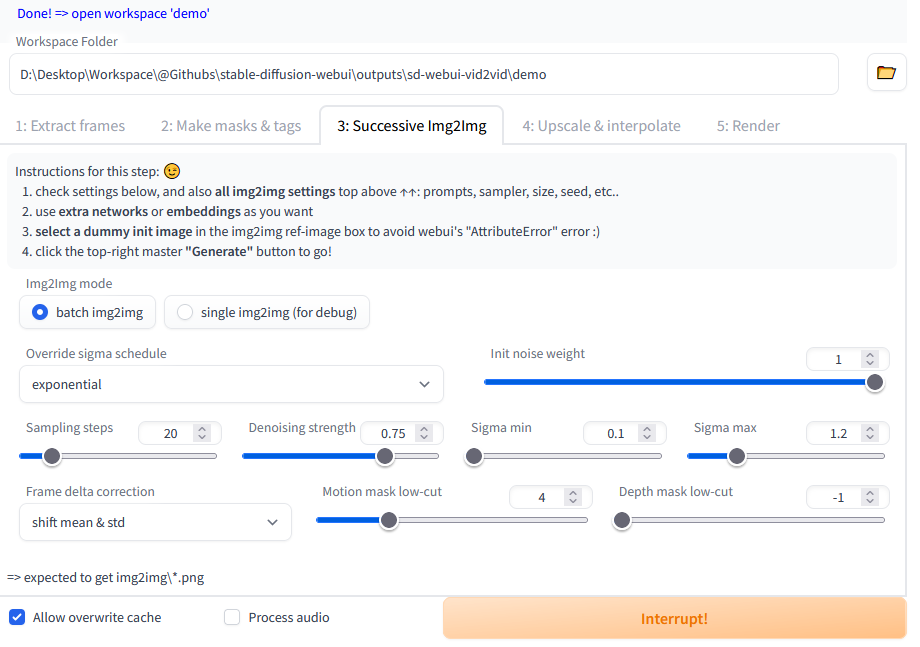
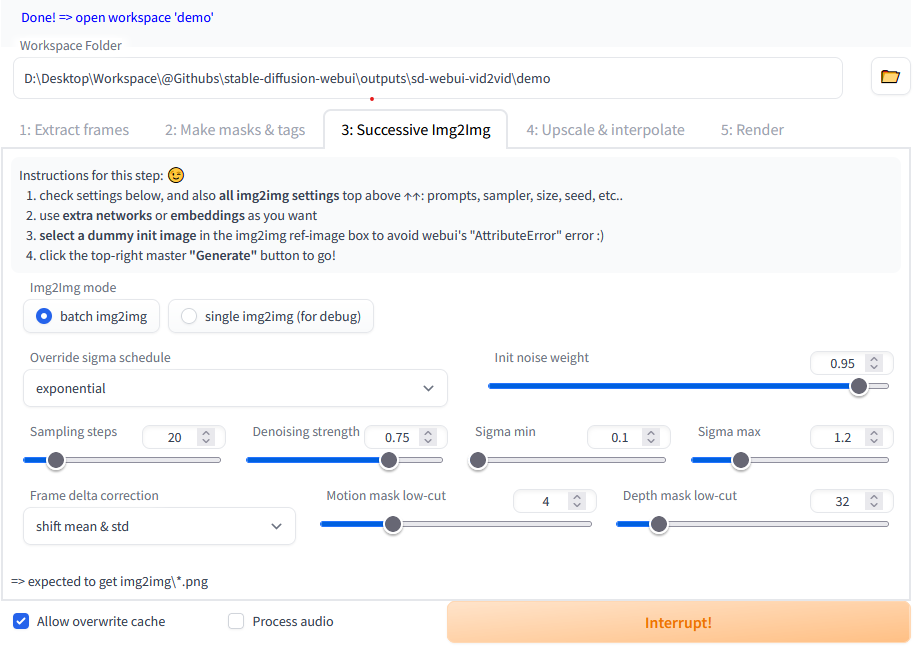
v1.0, just publish and end its life (

diff --git a/README.md b/README.md
@@ -19,12 +19,15 @@
 Convert a video to an AI generated video through a pipeline of model neural models: Stable-Diffusion, DeepDanbooru, Midas, Real-ESRGAN, RIFE, etc.  
 Although it sounds like the old joke that an English wizard turns a walnut into another walnut by reciting a tongue-twisting spell. 🤣  
 
+ℹ This script is only applicable in `img2img` tab :)  
+⚠ some tasks will take a real long time, **DO NOT** click the button twice, juts see progress bar on console!!
+
 
 Example: 
 
 | vid2vid | original | img2img |
 | :-: | :-: | :-: |
-| ![vid2vid](img/v2v.gif | ![original](img/original.gif) | ![img2img](img/i2i.gif) |
+| ![vid2vid](img/v2v.gif) | ![original](img/original.gif) | ![img2img](img/i2i.gif) |
 
 demo video original source:
 
@@ -47,18 +50,19 @@ CFG Scale: 7
 Seed: 114514
 
 Extracted FPS: 12
-Extracted fmt: jpg
+Extracted fmt: png
 Sampling steps: 20
-Denoising strength: 0.85
+Denoising strength: 0.75
 Init noise weight: 0.95
 Sigma method: exponential
-Sigma sigma max: 1.2
 Sigma sigma min: 0.1
+Sigma sigma max: 1.2
 Frame delta correction: avg & std
-Depth mask lowcut: -1
+Motion mask lowcut: 4
+Depth mask lowcut: 32
 RESR model: animevideov3-x2
 RIFE model: rife-v4
-Interp/export FPS: 24
+Interpolation ratio: 2
 Export fmt: mp4
 ```
 
@@ -113,16 +117,6 @@ We apply **frame delta correction & mask** using frame delta info:
   - `cd <SD>\repositories`
   - `git clone https://github.com/isl-org/MiDaS.git midas`
   - download `https://github.com/AlexeyAB/MiDaS/releases/download/midas_dpt/midas_v21_small-70d6b9c8.pt` put under `<SD>\models\midas\`
-
-
-### Options
-
-ℹ This script is only applicable in `img2img` tab :)  
-⚠ some tasks will take a real long time, DO NOT click the button twice, juts see output on console!!
-
-- cache_folder: (string), path to the folder for caching all intermediate data
-- video_file: (file), path to the video file to convert
-
 
 
 #### Acknowledgement
